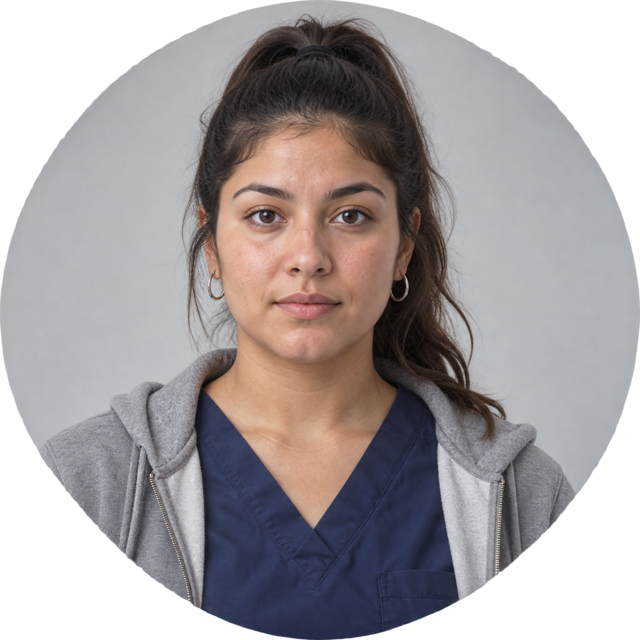
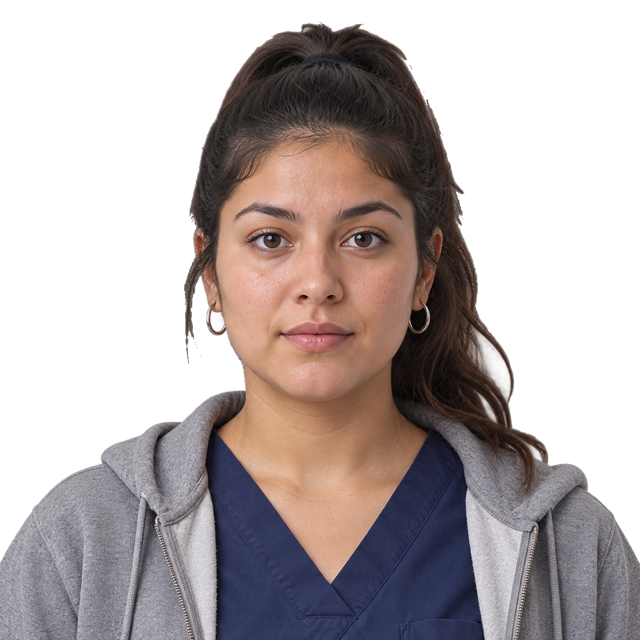
Round 11 art (12 of 13): neutral busts for Dana, Walt, President Garrity and Mr. Lin; the park with the empty board and a nine-piece game; six clean bust retakes; assets rebuilt
Request 248 (Jia neutral v2) is still pending: the generator hit its image usage limit and retries after the reset. The manifest now records the _vN source actually used for a background.

diff --git a/image_generation/247_ch_cn_leader_sep_guarded_A_v2.md b/image_generation/247_ch_cn_leader_sep_guarded_A_v2.md
@@ -11,7 +11,7 @@ depends_on: ["ch_cn_leader_sep_guarded_A"]
 attach: "out/ch_cn_leader_sep_ref_A_1.png"
 save_image_as: "out/ch_cn_leader_sep_guarded_A_v2.png"
 save_prompt_used_as: "out/ch_cn_leader_sep_guarded_A_v2.prompt.txt"
-status: "pending"
+status: "done"
 ---
 
 # ch_cn_leader_sep_guarded_A_v2

diff --git a/image_generation/242_ch_in_leader_int_neutral_A_v2.md b/image_generation/242_ch_in_leader_int_neutral_A_v2.md
@@ -11,7 +11,7 @@ depends_on: ["ch_in_leader_int_neutral_A"]
 attach: "out/ch_in_leader_int_ref_A.png"
 save_image_as: "out/ch_in_leader_int_neutral_A_v2.png"
 save_prompt_used_as: "out/ch_in_leader_int_neutral_A_v2.prompt.txt"
-status: "pending"
+status: "done"
 ---
 
 # ch_in_leader_int_neutral_A_v2

diff --git a/image_generation/243_ch_mx_stranger_b_neutral_A_v2.md b/image_generation/243_ch_mx_stranger_b_neutral_A_v2.md
@@ -11,7 +11,7 @@ depends_on: ["ch_mx_stranger_b_neutral_A"]
 attach: "out/ch_mx_stranger_b_ref_A.png"
 save_image_as: "out/ch_mx_stranger_b_neutral_A_v2.png"
 save_prompt_used_as: "out/ch_mx_stranger_b_neutral_A_v2.prompt.txt"
-status: "pending"
+status: "done"
 ---
 
 # ch_mx_stranger_b_neutral_A_v2

diff --git a/image_generation/244_ch_cn_leader_int_guarded_A_v2.md b/image_generation/244_ch_cn_leader_int_guarded_A_v2.md
@@ -11,7 +11,7 @@ depends_on: ["ch_cn_leader_int_guarded_A"]
 attach: "out/ch_cn_leader_int_ref_A.png"
 save_image_as: "out/ch_cn_leader_int_guarded_A_v2.png"
 save_prompt_used_as: "out/ch_cn_leader_int_guarded_A_v2.prompt.txt"
-status: "pending"
+status: "done"
 ---
 
 # ch_cn_leader_int_guarded_A_v2

diff --git a/image_generation/245_ch_cn_leader_int_warm_A_v2.md b/image_generation/245_ch_cn_leader_int_warm_A_v2.md
@@ -11,7 +11,7 @@ depends_on: ["ch_cn_leader_int_warm_A"]
 attach: "out/ch_cn_leader_int_ref_A.png"
 save_image_as: "out/ch_cn_leader_int_warm_A_v2.png"
 save_prompt_used_as: "out/ch_cn_leader_int_warm_A_v2.prompt.txt"
-status: "pending"
+status: "done"
 ---
 
 # ch_cn_leader_int_warm_A_v2

diff --git a/image_generation/237_ch_us_stranger_a_neutral_A.md b/image_generation/237_ch_us_stranger_a_neutral_A.md
@@ -11,7 +11,7 @@ depends_on: ["ch_us_stranger_a_ref_A"]
 attach: "out/ch_us_stranger_a_ref_A.png"
 save_image_as: "out/ch_us_stranger_a_neutral_A.png"
 save_prompt_used_as: "out/ch_us_stranger_a_neutral_A.prompt.txt"
-status: "pending"
+status: "done"
 ---
 
 # ch_us_stranger_a_neutral_A

diff --git a/image_generation/239_ch_cn_stranger_a_neutral_A.md b/image_generation/239_ch_cn_stranger_a_neutral_A.md
@@ -11,7 +11,7 @@ depends_on: ["ch_cn_stranger_a_ref_A"]
 attach: "out/ch_cn_stranger_a_ref_A.png"
 save_image_as: "out/ch_cn_stranger_a_neutral_A.png"
 save_prompt_used_as: "out/ch_cn_stranger_a_neutral_A.prompt.txt"
-status: "pending"
+status: "done"
 ---
 
 # ch_cn_stranger_a_neutral_A

diff --git a/image_generation/246_ch_cn_neighbor_warm_A_v2.md b/image_generation/246_ch_cn_neighbor_warm_A_v2.md
@@ -11,7 +11,7 @@ depends_on: ["ch_cn_neighbor_warm_A"]
 attach: "out/ch_cn_neighbor_ref_A.png"
 save_image_as: "out/ch_cn_neighbor_warm_A_v2.png"
 save_prompt_used_as: "out/ch_cn_neighbor_warm_A_v2.prompt.txt"
-status: "pending"
+status: "done"
 ---
 
 # ch_cn_neighbor_warm_A_v2

diff --git a/image_generation/236_ch_us_neighbor_neutral_A.md b/image_generation/236_ch_us_neighbor_neutral_A.md
@@ -11,7 +11,7 @@ depends_on: ["ch_us_neighbor_ref_A"]
 attach: "out/ch_us_neighbor_ref_A.png"
 save_image_as: "out/ch_us_neighbor_neutral_A.png"
 save_prompt_used_as: "out/ch_us_neighbor_neutral_A.prompt.txt"
-status: "pending"
+status: "done"
 ---
 
 # ch_us_neighbor_neutral_A

diff --git a/image_generation/241_bg_park_board_day_A_v2.md b/image_generation/241_bg_park_board_day_A_v2.md
@@ -11,7 +11,7 @@ depends_on: ["bg_park_board_day_A"]
 attach: "out/bg_park_board_day_A.png"
 save_image_as: "out/bg_park_board_day_A_v2.png"
 save_prompt_used_as: "out/bg_park_board_day_A_v2.prompt.txt"
-status: "pending"
+status: "done"
 ---
 
 # bg_park_board_day_A_v2

diff --git a/image_generation/238_ch_nat_anti_neutral_A.md b/image_generation/238_ch_nat_anti_neutral_A.md
@@ -11,7 +11,7 @@ depends_on: ["ch_nat_anti_ref_A"]
 attach: "out/ch_nat_anti_ref_A.png"
 save_image_as: "out/ch_nat_anti_neutral_A.png"
 save_prompt_used_as: "out/ch_nat_anti_neutral_A.prompt.txt"
-status: "pending"
+status: "done"
 ---
 
 # ch_nat_anti_neutral_A

diff --git a/image_generation/240_bg_park_empty_day_A.md b/image_generation/240_bg_park_empty_day_A.md
@@ -11,7 +11,7 @@ depends_on: ["bg_park_board_day_A"]
 attach: "out/bg_park_board_day_A.png"
 save_image_as: "out/bg_park_empty_day_A.png"
 save_prompt_used_as: "out/bg_park_empty_day_A.prompt.txt"
-status: "pending"
+status: "done"
 ---
 
 # bg_park_empty_day_A
